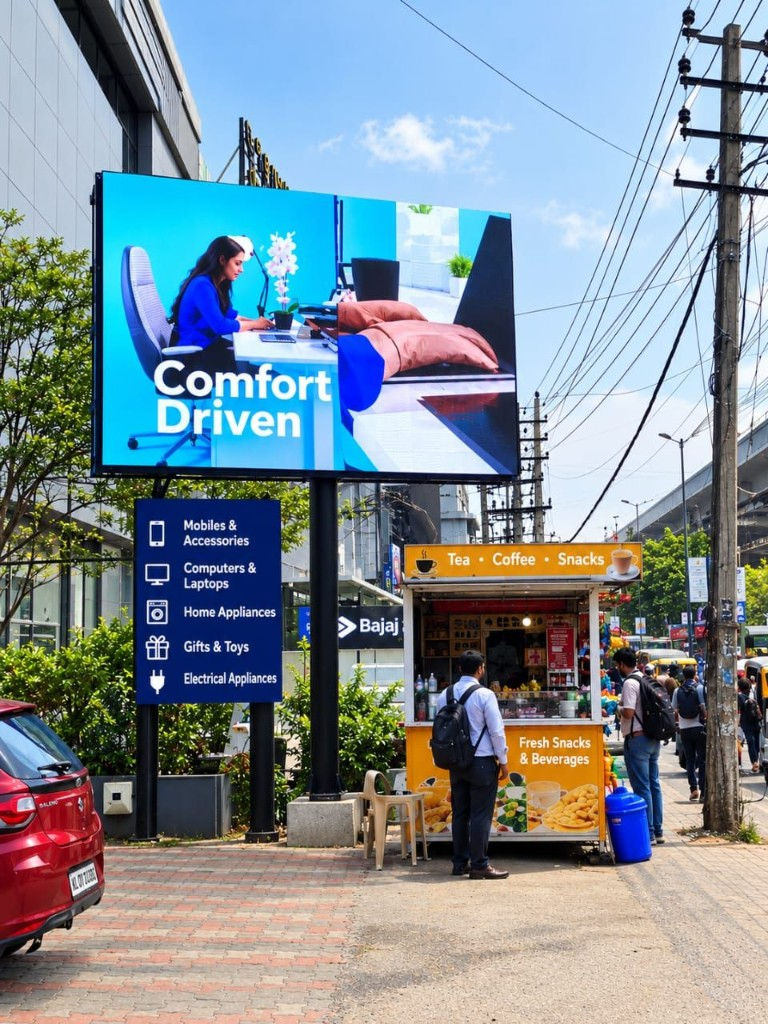
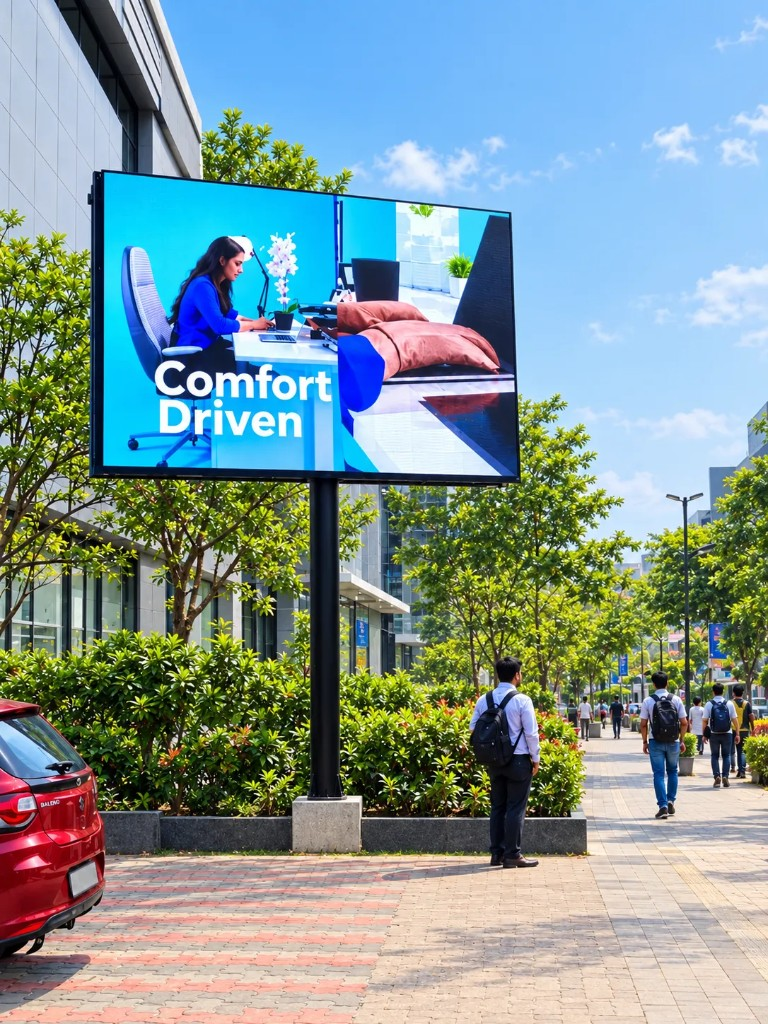
Design changes

diff --git a/client/src/pages/AboutPage.jsx b/client/src/pages/AboutPage.jsx
@@ -96,7 +96,7 @@ export default function AboutPage() {
         </div>
         {/* Overlapping Image (Bottom Right) */}
         <div className="absolute rounded-sm overflow-hidden z-20 shadow-2xl bg-white" style={{bottom: 0, right: 0, width: '60%', border: '8px solid white', aspectRatio: '4/3'}}>
-          <img src="/images/work/vara-alath-tower.png" alt="Nila Advertising outdoor LED screen" className="w-full h-full object-cover hover:scale-105 transition-transform duration-1000" style={{ objectPosition: 'center 22%' }} />
+          <img src="/images/work/vara-alath-tower.jpg" alt="Nila Advertising outdoor LED screen" className="w-full h-full object-cover hover:scale-105 transition-transform duration-1000" style={{ objectPosition: 'center 22%' }} />
         </div>
         {/* Floating Badge (Top Left) */}
         <div className="absolute bg-white border border-gray-100 p-4 lg:p-5 rounded-sm z-30 shadow-xl flex items-center gap-4" style={{top: '-1.5rem', left: '-1.5rem'}}>
@@ -547,7 +547,7 @@ export default function AboutPage() {
             </div>
             {/* Architectural Visual Thumbnail (Strict Fixed Height) */}
             <div className="relative w-full rounded-xl overflow-hidden mb-6 border border-white/10 bg-black/40" style={{height: 160, marginBottom: '1.5rem'}}>
-              <img src="/images/work/vara-alath-tower.png" alt="Nila Advertising outdoor LED screen" className="w-full h-full object-cover group-hover:scale-105 transition-transform duration-500 opacity-85 group-hover:opacity-100" style={{height: 160, width: '100%', objectFit: 'cover', objectPosition: 'center 22%'}} />
+              <img src="/images/work/vara-alath-tower.jpg" alt="Nila Advertising outdoor LED screen" className="w-full h-full object-cover group-hover:scale-105 transition-transform duration-500 opacity-85 group-hover:opacity-100" style={{height: 160, width: '100%', objectFit: 'cover', objectPosition: 'center 22%'}} />
               <div className="absolute inset-0 bg-gradient-to-t from-[#0D1E2D] via-transparent to-transparent opacity-80 pointer-events-none" />
               <span className="absolute bottom-2.5 left-2.5 px-2.5 py-1 rounded-md text-[10px] font-bold bg-[#071521]/90 text-white border border-white/15 uppercase tracking-wider">
                 Facade

diff --git a/client/src/styles/overrides.css b/client/src/styles/overrides.css
@@ -189,7 +189,8 @@ nav button:active,
 .project-spec-grid {
   display: grid;
   grid-template-columns: 1fr;
-  gap: 1.5rem;
+  gap: 1.25rem;
+  align-items: stretch;
 }
 
 @media (min-width: 640px) {
@@ -199,40 +200,58 @@ nav button:active,
   }
 }
 
-@media (min-width: 1024px) {
+@media (min-width: 1100px) {
   .project-spec-grid {
-    grid-template-columns: repeat(4, 1fr);
-    gap: 1.25rem;
+    grid-template-columns: repeat(3, 1fr);
+    gap: 1.5rem;
   }
 }
 
 .project-spec-card {
   background: #fff;
-  border: 1px solid #e5e7eb;
-  border-radius: 0.75rem;
+  border: 1px solid #e6ebf0;
+  border-radius: 1rem;
   overflow: hidden;
   display: flex;
   flex-direction: column;
-  transition: transform 0.2s ease, box-shadow 0.2s ease;
+  min-width: 0;
+  transition: transform 0.2s ease, box-shadow 0.2s ease, border-color 0.2s ease;
 }
 
 .project-spec-card:hover {
-  transform: translateY(-2px);
-  box-shadow: 0 12px 25px -8px rgba(7, 21, 33, 0.12);
+  transform: translateY(-3px);
+  border-color: #d5dee8;
+  box-shadow: 0 18px 40px -18px rgba(7, 21, 33, 0.22);
 }
 
 .project-spec-card img {
   display: block;
   width: 100%;
-  height: 200px;
-  object-fit: cover;
+  height: 100%;
+  min-height: 0;
+  object-fit: contain;
+  background: transparent;
+  transition: transform 0.45s ease;
+}
+
+.project-spec-card:hover img {
+  transform: scale(1.035);
 }
 
 .project-spec-body {
-  padding: 1.25rem 1.15rem 1.35rem;
+  padding: 1.15rem 1.2rem 1.25rem;
   display: flex;
   flex-direction: column;
   flex: 1;
+  gap: 0;
+}
+
+.project-spec-copy {
+  display: -webkit-box;
+  -webkit-line-clamp: 3;
+  -webkit-box-orient: vertical;
+  overflow: hidden;
+  min-height: 3.9em;
 }
 
 .project-spec-body h2 {
@@ -305,13 +324,18 @@ nav button:active,
 }
 
 .project-spec-photo {
-  display: block;
+  display: flex;
+  align-items: center;
+  justify-content: center;
   width: 100%;
+  aspect-ratio: 1 / 1;
   margin: 0;
-  padding: 0;
+  padding: 0.85rem;
   border: 0;
-  background: transparent;
+  border-bottom: 1px solid #e8edf2;
+  background: #f4f7fa;
   cursor: zoom-in;
+  overflow: hidden;
 }
 
 .project-lightbox {

diff --git a/client/src/pages/ProjectsPage.jsx b/client/src/pages/ProjectsPage.jsx
@@ -64,7 +64,7 @@ export default function ProjectsPage() {
           </div>
         </div>
       </section>
-      <section className="py-16 md:py-24 bg-white overflow-hidden">
+      <section className="py-16 md:py-24 bg-[#f5f7fa] overflow-hidden">
         <div className="max-w-[1400px] mx-auto px-4 sm:px-6 md:px-12">
           <div id="portfolio-filters" className="projects-filter-bar">
             {FILTERS.map((item) => (
@@ -99,7 +99,7 @@ export default function ProjectsPage() {
                 <div className="project-spec-body">
                   <p className="text-[11px] font-bold tracking-[0.2em] uppercase text-[#168BEB] mb-2">{item.environment} · {item.type}</p>
                   <h2 className="text-xl font-bold text-[#071521] mb-2">{item.title}</h2>
-                  <p className="text-[13px] text-gray-500 leading-relaxed mb-4">{item.description}</p>
+                  <p className="project-spec-copy text-[13px] text-gray-500 leading-relaxed mb-4">{item.description}</p>
                   <dl className="project-spec-list">
                     <div><dt>Location</dt><dd>{item.location}</dd></div>
                     <div><dt>Setting</dt><dd>{item.environment}</dd></div>

diff --git a/client/src/components/ProjectClose.jsx b/client/src/components/ProjectClose.jsx
@@ -4,7 +4,7 @@ export default function ProjectClose() {
   return (
     <section className="bg-[#071521] text-white flex flex-col md:flex-row items-stretch">
       <div className="w-full md:w-[40%] lg:w-[45%] shrink-0 relative min-h-[300px]">
-        <img src="/images/work/vara-alath-tower.png" className="absolute inset-0 w-full h-full object-cover" style={{ objectPosition: 'center 22%' }} alt="Nila Advertising outdoor LED screen" />
+        <img src="/images/work/vara-alath-tower.jpg" className="absolute inset-0 w-full h-full object-cover" style={{ objectPosition: 'center 22%' }} alt="Nila Advertising outdoor LED screen" />
       </div>
       <div className="w-full md:w-[60%] lg:w-[55%] p-10 md:p-16 lg:p-24 flex flex-col justify-center">
         <div className="max-w-[800px]">

diff --git a/client/src/pages/HomePage.jsx b/client/src/pages/HomePage.jsx
@@ -5,7 +5,7 @@ import { installations } from '../data/installations';
 
 const heroSlides = [
   { src: '/images/work/nss-college-pandalam.jpg', alt: 'NSS College Pandalam indoor LED wall', focus: 'center' },
-  { src: '/images/work/vara-alath-tower.png', alt: 'Nila Advertising outdoor LED screen', focus: 'center 22%' },
+  { src: '/images/work/vara-alath-tower.jpg', alt: 'Nila Advertising outdoor LED screen', focus: 'center 22%' },
   { src: '/images/work/bosque-furniture-bangalore.jpg', alt: 'Bosque Furniture billboard in Bangalore', focus: 'center 28%' },
   { src: '/images/work/aakash-edappally.png', alt: 'Moulavi Books Stationery billboard', focus: 'center 28%' },
   { src: '/images/work/vehicle-branding.jpg', alt: 'Vehicle branding LED panel', focus: 'center' },

diff --git a/client/src/data/installations.js b/client/src/data/installations.js
@@ -119,7 +119,7 @@ export const installations = [
   {
     id: 'vara-alath-tower',
     title: 'Nila Advertising',
-    image: '/images/work/vara-alath-tower.png',
+    image: '/images/work/vara-alath-tower.jpg',
     location: 'Alathur, Kerala',
     environment: 'Outdoor',
     type: 'Building facade screen',
@@ -127,7 +127,7 @@ export const installations = [
     badge: 'Facade',
     note: 'Outdoor',
     focus: 'center 22%',
-    description: 'Large outdoor LED screen for Nila Advertising, above the M S Bakery frontage.',
+    description: 'Large outdoor LED screen for Nila Advertising on the building facade.',
   },
   {
     id: 'aakash-edappally',
